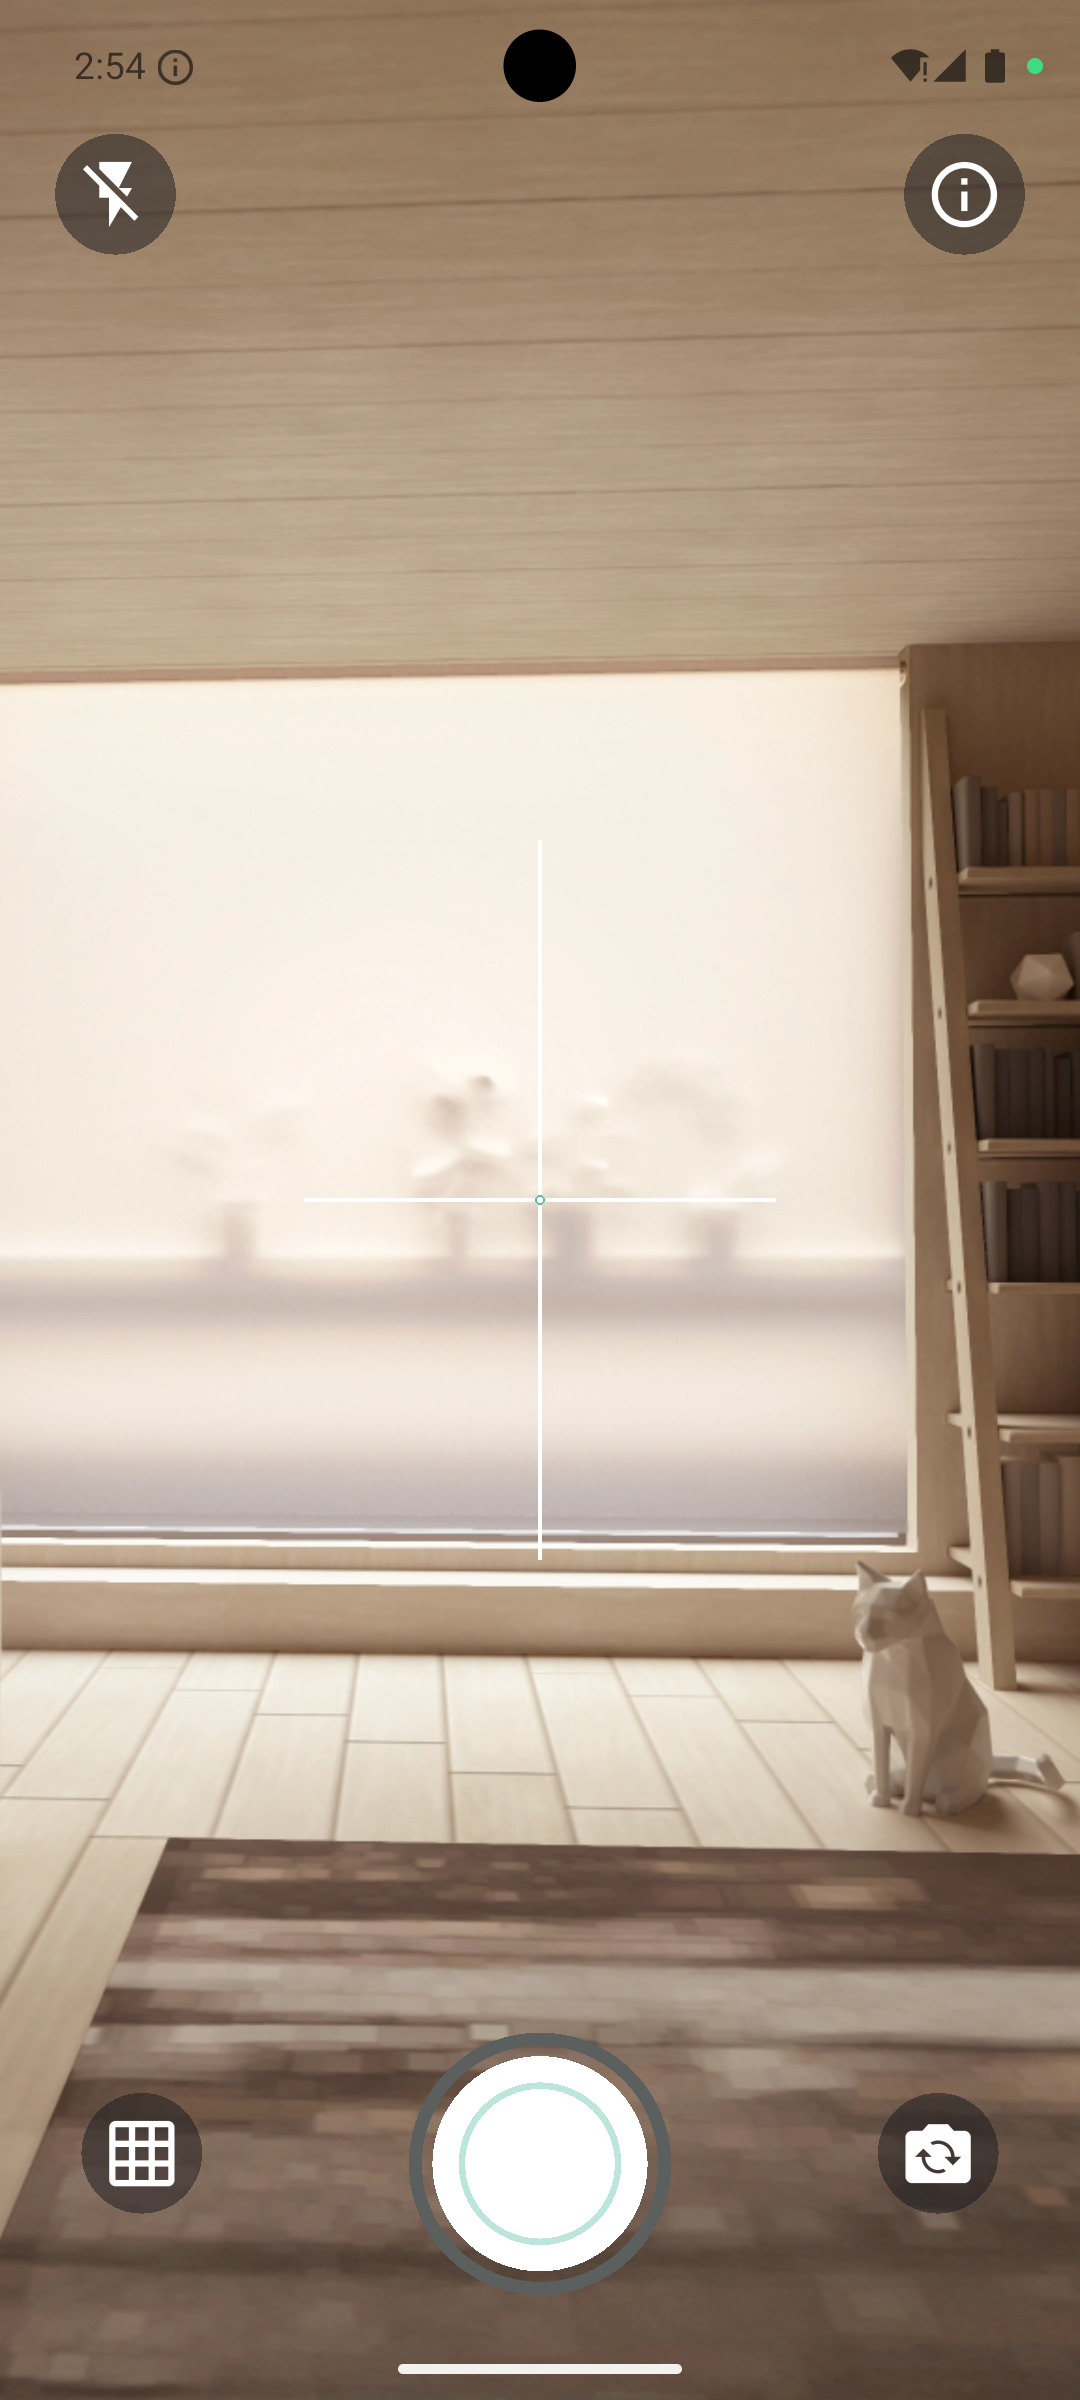
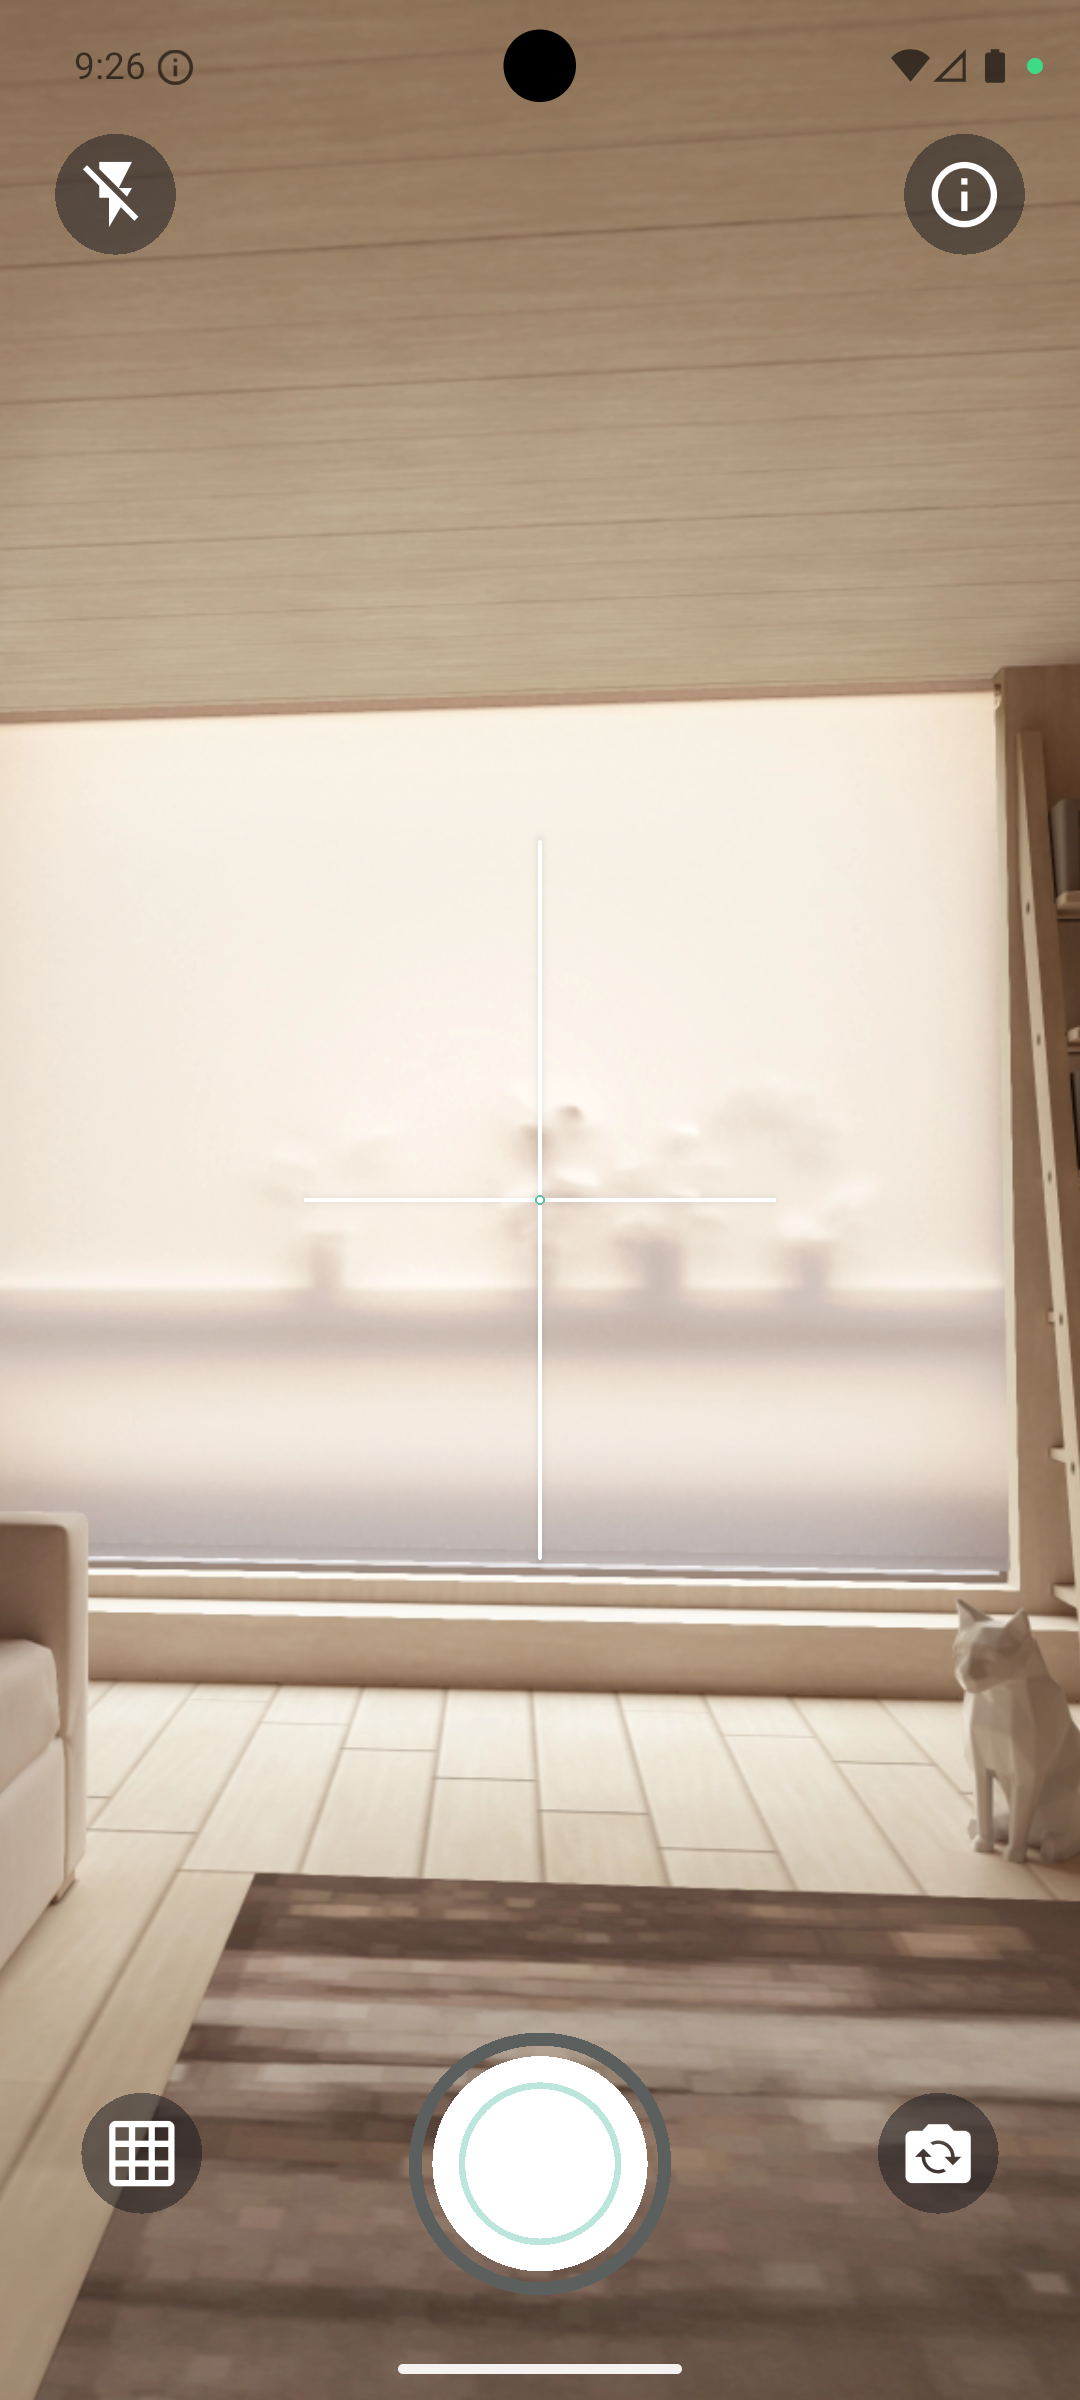
Add red crosshair feature and update related components
- Introduced a new red crosshair widget.
- Updated GridMode enum to include redCrosshair.
- Modified CameraBloc to handle the new grid mode.
- Enhanced GridOverlayWidget to display the red crosshair.
- Updated GridModeButton to change icon color based on selected mode.
- Improved Crosshair widget styling with shadows and rounded corners.

Changed region(s): [[0.0, 0.2188, 1.0, 1.0], [0.8861, 0.9688, 0.9472, 1.0]]

diff --git a/lib/features/camera/presentation/widgets/red_crosshair.dart b/lib/features/camera/presentation/widgets/red_crosshair.dart
@@ -1,0 +1,79 @@
+import 'package:flutter/material.dart';
+
+import '../../../../core/theming/colors_manager.dart';
+
+class RedCrosshair extends StatelessWidget {
+  const RedCrosshair({super.key});
+
+  @override
+  Widget build(BuildContext context) {
+    final Size screenSize = MediaQuery.sizeOf(context);
+    final Orientation orientation = MediaQuery.orientationOf(context);
+    return Stack(
+      children: [
+        Positioned(
+          bottom: 200,
+          right: 0,
+          left: 0,
+          child: Center(
+            child: Container(
+              height: orientation == Orientation.portrait ? 1.4 : 1,
+              width: orientation == Orientation.portrait
+                  ? screenSize.width * 0.12
+                  : screenSize.width * 0.15,
+              decoration: BoxDecoration(
+                color: Colors.red,
+                borderRadius: BorderRadius.circular(2),
+                boxShadow: [
+                  BoxShadow(
+                    color: Colors.white.withValues(alpha: 0.1),
+                    blurRadius: 1,
+                    spreadRadius: 0.1,
+                  ),
+                ],
+              ),
+            ),
+          ),
+        ),
+        Center(
+          child: Container(
+            width: orientation == Orientation.portrait ? 1.4 : 1,
+            height: orientation == Orientation.portrait
+                ? screenSize.height * 0.45
+                : screenSize.height * 0.08,
+            decoration: BoxDecoration(
+              color: Colors.red,
+              borderRadius: BorderRadius.circular(2),
+              boxShadow: [
+                BoxShadow(
+                  color: Colors.white.withValues(alpha: 0.1),
+                  blurRadius: 1,
+                  spreadRadius: 0.1,
+                ),
+              ],
+            ),
+          ),
+        ),
+        Positioned(
+          bottom: 200,
+          left: 0,
+          right: 0,
+          child: Center(
+            child: Container(
+              width: orientation == Orientation.portrait ? 3 : 2,
+              height: orientation == Orientation.portrait ? 3 : 2,
+              decoration: BoxDecoration(
+                shape: BoxShape.circle,
+                color: Colors.transparent,
+                border: Border.all(
+                  color: ColorsManager.customGreen,
+                  width: 0.5,
+                ),
+              ),
+            ),
+          ),
+        ),
+      ],
+    );
+  }
+}

diff --git a/lib/features/camera/presentation/widgets/crosshair.dart b/lib/features/camera/presentation/widgets/crosshair.dart
@@ -17,7 +17,17 @@ class Crosshair extends StatelessWidget {
             width: orientation == Orientation.portrait
                 ? screenSize.width * 0.35
                 : screenSize.width * 0.13,
-            color: Colors.white,
+            decoration: BoxDecoration(
+              color: Colors.white,
+              borderRadius: BorderRadius.circular(2),
+              boxShadow: [
+                BoxShadow(
+                  color: ColorsManager.customBlack.withValues(alpha: 0.1),
+                  blurRadius: 1,
+                  spreadRadius: 0.1,
+                ),
+              ],
+            ),
           ),
         ),
         Center(
@@ -26,7 +36,17 @@ class Crosshair extends StatelessWidget {
             height: orientation == Orientation.portrait
                 ? screenSize.height * 0.24
                 : screenSize.height * 0.16,
-            color: Colors.white,
+            decoration: BoxDecoration(
+              color: Colors.white,
+              borderRadius: BorderRadius.circular(2),
+              boxShadow: [
+                BoxShadow(
+                  color: ColorsManager.customBlack.withValues(alpha: 0.1),
+                  blurRadius: 1,
+                  spreadRadius: 0.1,
+                ),
+              ],
+            ),
           ),
         ),
         Center(

diff --git a/lib/features/camera/presentation/widgets/grid_mode_button.dart b/lib/features/camera/presentation/widgets/grid_mode_button.dart
@@ -32,7 +32,7 @@ class GridModeButton extends StatelessWidget {
           builder: (context, gridMode) {
             return Icon(
               _getIconForGridMode(gridMode),
-              color: Colors.white,
+              color: gridMode == GridMode.aimDot ? Colors.red : Colors.white,
               size: 30,
             );
           },
@@ -48,7 +48,8 @@ class GridModeButton extends StatelessWidget {
       case GridMode.ruleOfThirds:
         return Icons.circle_outlined;
       case GridMode.aimDot:
-        return Icons.add;
+      case GridMode.redCrosshair:
+        return Icons.add_rounded;
     }
   }
 }

diff --git a/lib/features/camera/presentation/widgets/grid_overlay_widget.dart b/lib/features/camera/presentation/widgets/grid_overlay_widget.dart
@@ -6,6 +6,7 @@ import '../bloc/camera_bloc.dart';
 import '../bloc/camera_state.dart';
 import 'aim_dot.dart';
 import 'crosshair.dart';
+import 'red_crosshair.dart';
 import 'rule_of_thirds_grid.dart';
 
 class GridOverlayWidget extends StatelessWidget {
@@ -23,6 +24,8 @@ class GridOverlayWidget extends StatelessWidget {
             return const RuleOfThirdsGrid();
           case GridMode.aimDot:
             return const AimDot();
+          case GridMode.redCrosshair:
+            return const RedCrosshair();
         }
       },
     );

diff --git a/lib/features/camera/presentation/bloc/camera_bloc.dart b/lib/features/camera/presentation/bloc/camera_bloc.dart
@@ -162,6 +162,9 @@ class CameraBloc extends Bloc<CameraEvent, CameraState> {
           newGridMode = GridMode.aimDot;
           break;
         case GridMode.aimDot:
+          newGridMode = GridMode.redCrosshair;
+          break;
+        case GridMode.redCrosshair:
           newGridMode = GridMode.crosshair;
           break;
       }

diff --git a/lib/core/utils/app_enums.dart b/lib/core/utils/app_enums.dart
@@ -1,3 +1,3 @@
 enum BlocStatus { initial, loading, success, failure }
 
-enum GridMode { crosshair, ruleOfThirds, aimDot }
+enum GridMode { crosshair, ruleOfThirds, aimDot, redCrosshair }

diff --git a/README.md b/README.md
@@ -19,6 +19,7 @@ A Flutter camera application featuring customizable grid overlays (crosshair, ru
 <p align="center">
   <img src="assets/images/phone1.png" width="200" alt="Phone Screenshot 1"/>
   <img src="assets/images/phone2.png" width="200" alt="Phone Screenshot 2"/>
+  <img src="assets/images/phone6.png" width="200" alt="Phone Screenshot 6"/>
   <img src="assets/images/phone3.png" width="200" alt="Phone Screenshot 3"/>
   <img src="assets/images/phone4.png" width="200" alt="Phone Screenshot 4"/>
   <img src="assets/images/phone5.png" width="200" alt="Phone Screenshot 5"/>
